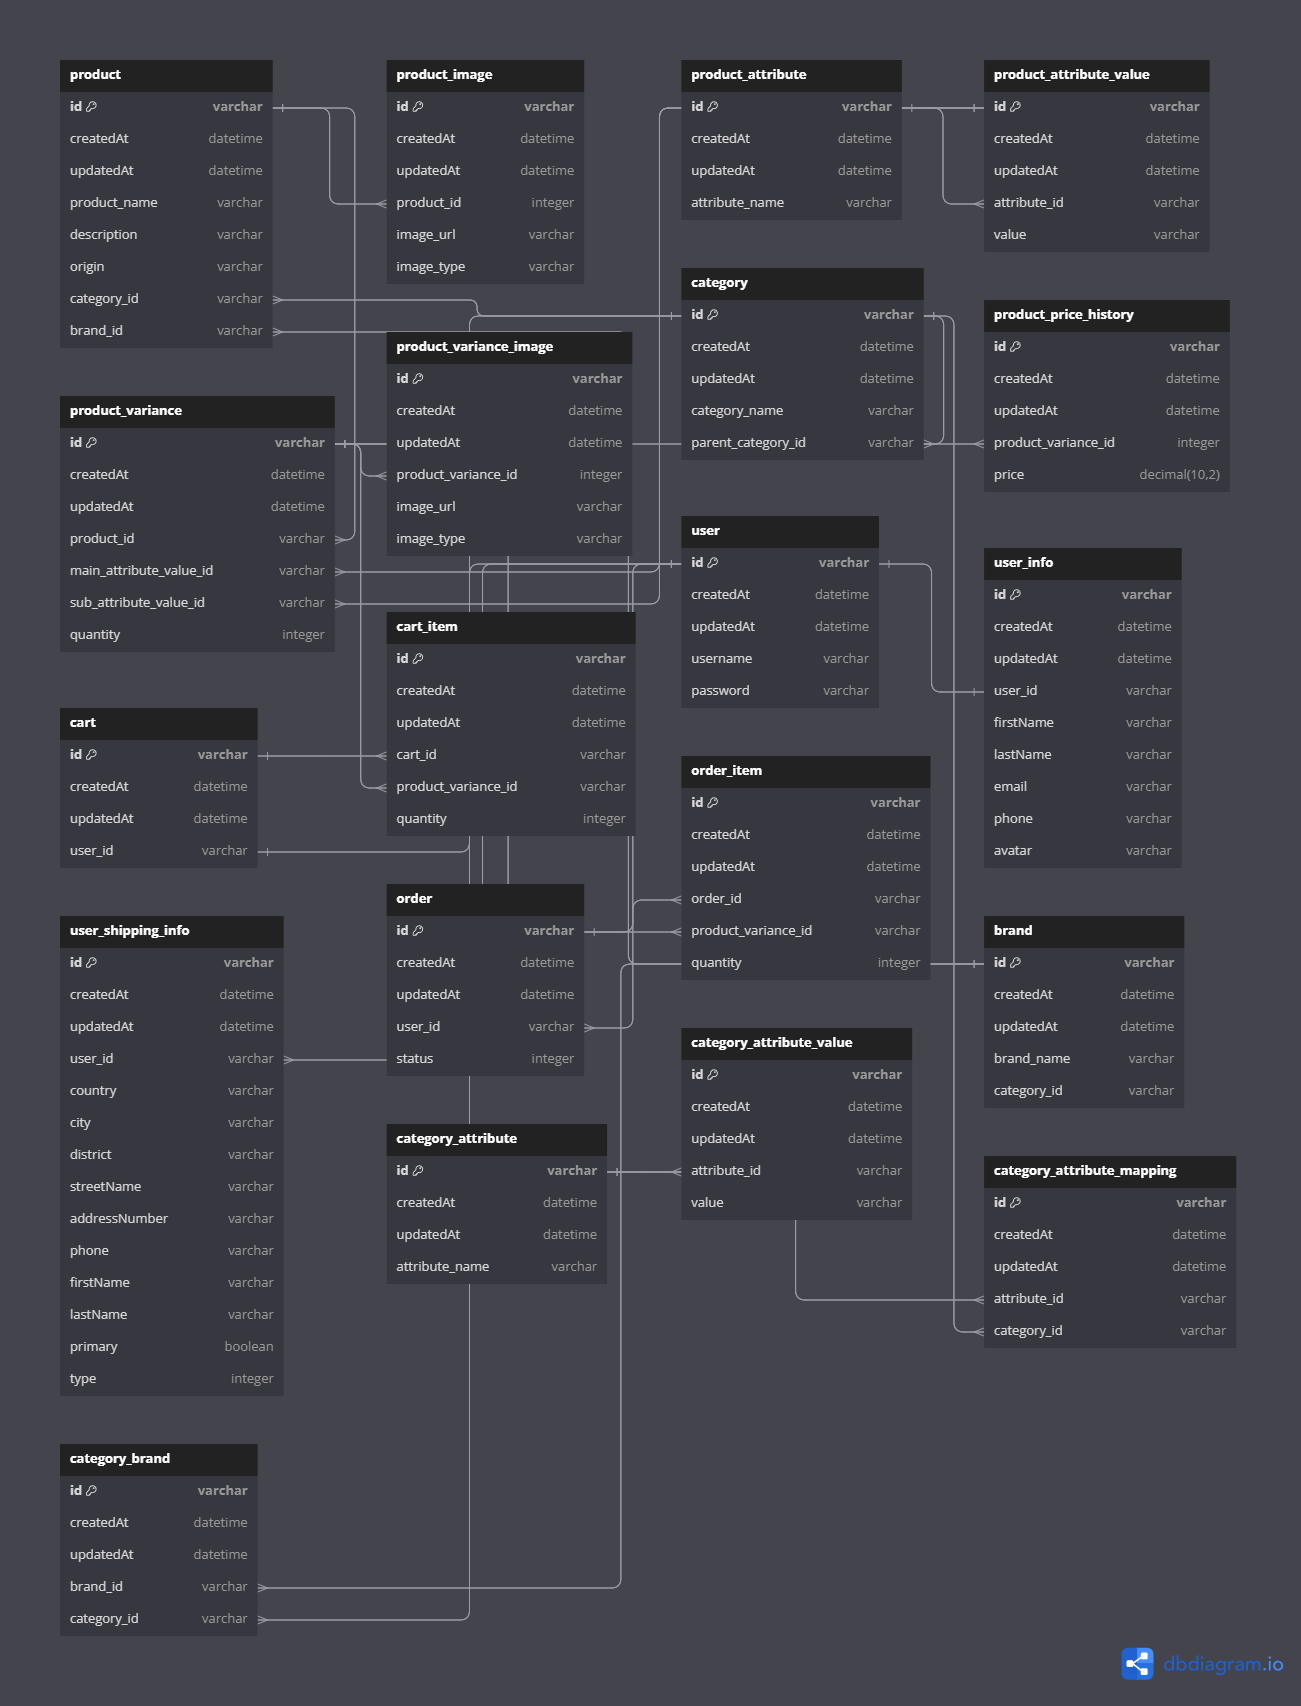
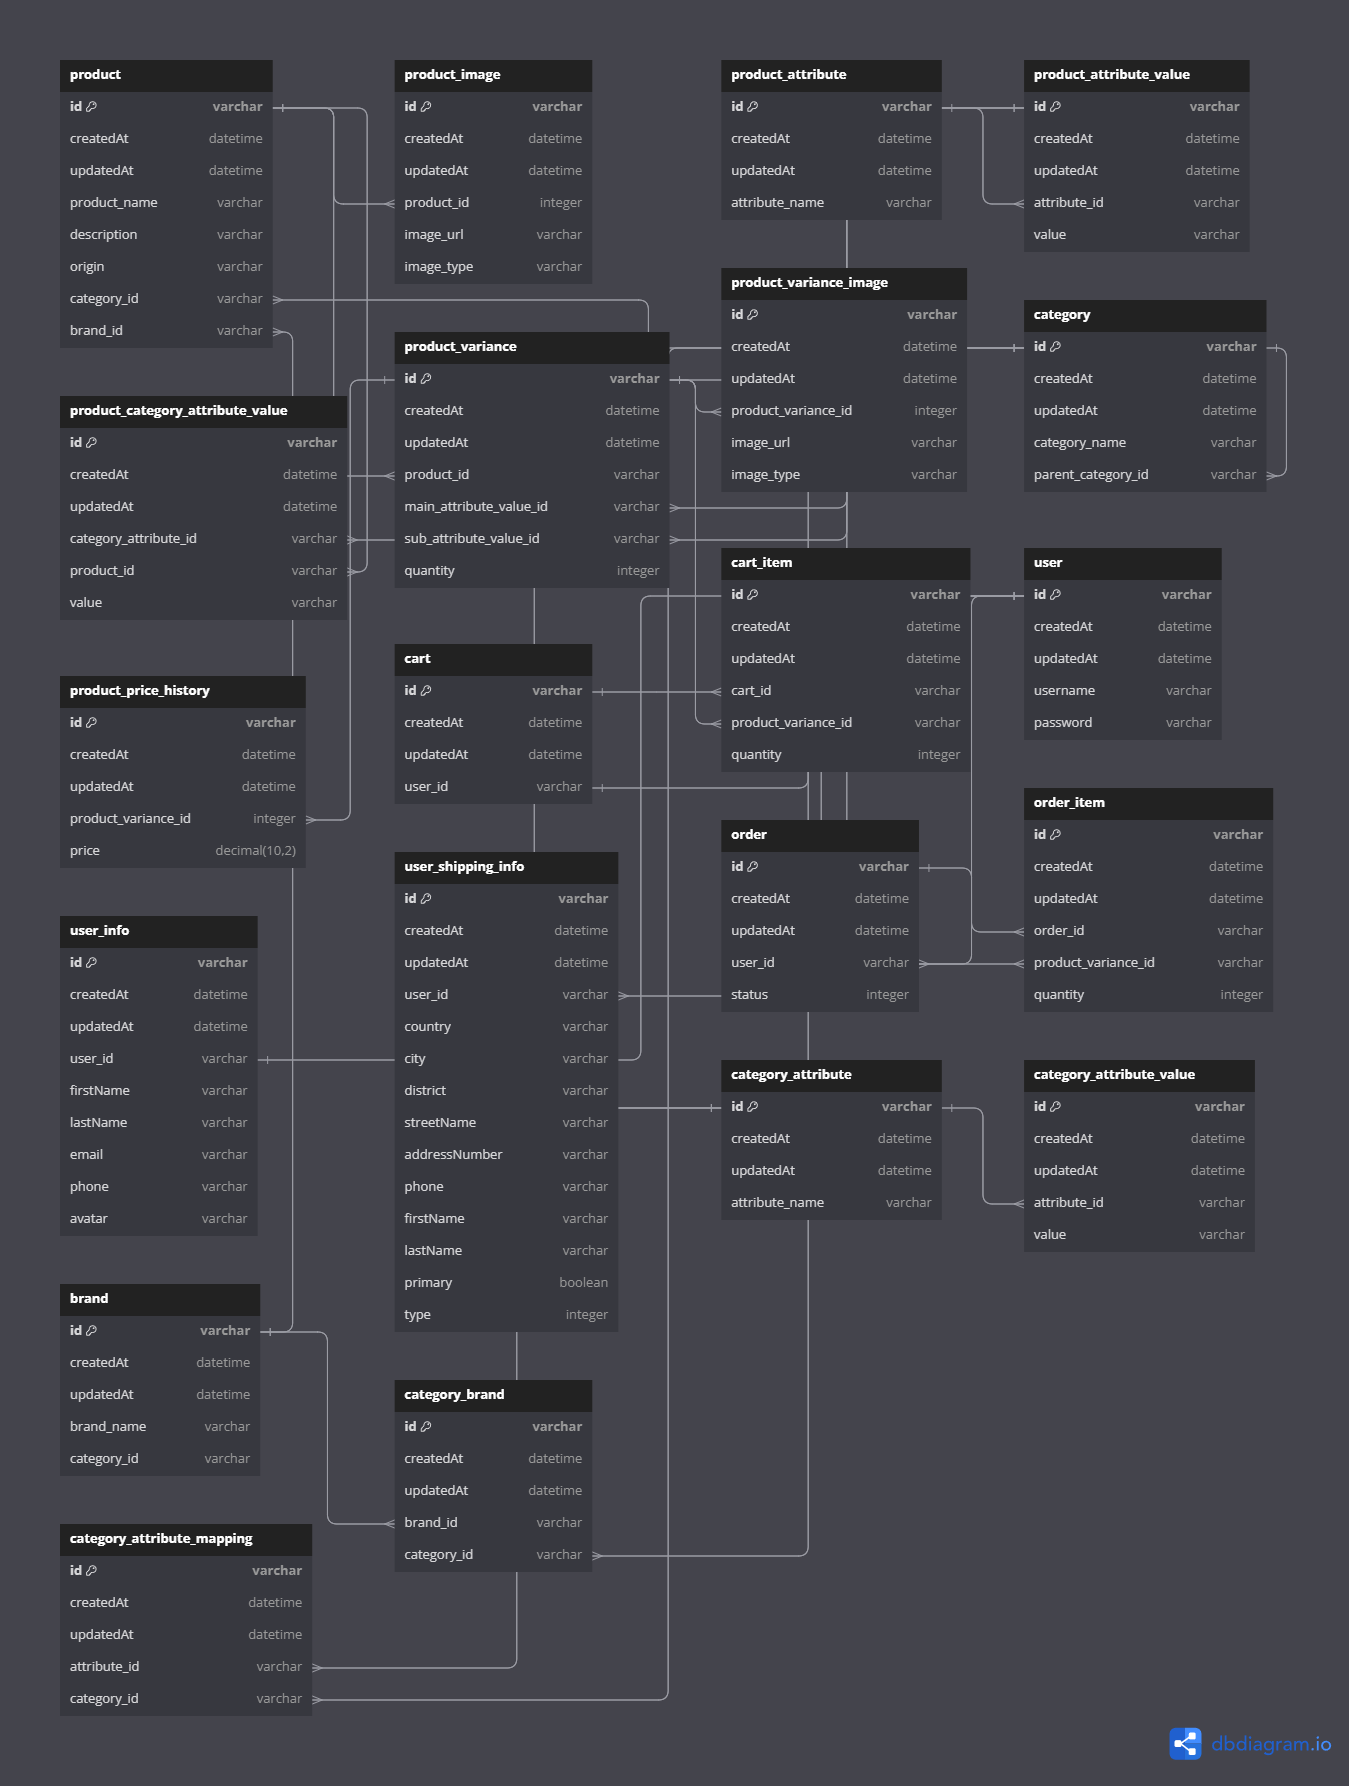
feat: category attribute table

Changed region(s): [[0.0307, 0.0311, 0.9531, 0.9631], [0.8609, 0.9631, 0.9839, 0.9941], [0.7071, 0.0621, 0.7379, 0.0932]]

diff --git a/src/entities/category-attribute.entity.ts b/src/entities/category-attribute.entity.ts
@@ -1,6 +1,7 @@
 import { Column, Entity, OneToMany } from 'typeorm'
 import CustomBase from './base'
 import CategoryAttributeMapping from './category-attribute-mapping.entity'
+import ProductCategoryAttributeValue from './product-category-attribute-value.entity'
 
 @Entity()
 class CategoryAttribute extends CustomBase {
@@ -12,6 +13,9 @@ class CategoryAttribute extends CustomBase {
 
   @OneToMany(() => CategoryAttributeMapping, (categoryAttributeMapping) => categoryAttributeMapping.attributeCategoryMapping)
   attributeCategories: CategoryAttribute[]
+
+  @OneToMany(() => ProductCategoryAttributeValue, (productCategoryAttributeValue) => productCategoryAttributeValue.categoryAttribute)
+  productCategoryAttributeValues: ProductCategoryAttributeValue[]
 }
 
 export default CategoryAttribute

diff --git a/src/entities/product-category-attribute-value.entity.ts b/src/entities/product-category-attribute-value.entity.ts
@@ -1,0 +1,20 @@
+import { Column, Entity, JoinColumn, ManyToOne } from 'typeorm'
+import CustomBase from './base'
+import CategoryAttribute from './category-attribute.entity'
+import Product from './product.entity'
+
+@Entity()
+class ProductCategoryAttributeValue extends CustomBase {
+  @Column({ type: 'varchar', nullable: false })
+  value: string
+
+  @ManyToOne(() => Product, (product) => product.productCategoryAttributeValues)
+  @JoinColumn({ name: 'product_id'})
+  product: Product
+
+  @ManyToOne(() => CategoryAttribute, (categoryAttribute) => categoryAttribute.productCategoryAttributeValues )
+  @JoinColumn({ name: 'category_attribute_id'})
+  categoryAttribute: CategoryAttribute
+}
+
+export default ProductCategoryAttributeValue

diff --git a/src/app.module.ts b/src/app.module.ts
@@ -26,6 +26,7 @@ import CategoryAttribute from './entities/category-attribute.entity'
 import CategoryAttributeValue from './entities/category-attribute-value.entity'
 import CategoryAttributeMapping from './entities/category-attribute-mapping.entity'
 import CategoryBrand from './entities/category-brand.entity'
+import ProductCategoryAttributeValue from './entities/product-category-attribute-value.entity'
 @Module({
   imports: [
     ConfigModule.forRoot(),
@@ -55,6 +56,7 @@ import CategoryBrand from './entities/category-brand.entity'
         ProductVariance,
         ProductVarianceImage,
         ProductPriceHistory,
+        ProductCategoryAttributeValue,
         Cart,
         CartItem,
       ],

diff --git a/src/entities/product.entity.ts b/src/entities/product.entity.ts
@@ -4,6 +4,7 @@ import Category from './category.entity'
 import ProductVariance from './product-variance.entity'
 import Brand from './brand.entity'
 import ProductImage from './product-image.entity'
+import ProductCategoryAttributeValue from './product-category-attribute-value.entity'
 
 @Entity()
 class Product extends CustomBase {
@@ -26,6 +27,9 @@ class Product extends CustomBase {
 
   @OneToMany(() => ProductImage, (productImage) => productImage.product)
   images: ProductImage[]
+
+  @OneToMany(() => ProductCategoryAttributeValue, (productCategoryAttributeValue) => productCategoryAttributeValue.product)
+  productCategoryAttributeValues: ProductCategoryAttributeValue[]
 }
 
 export default Product
